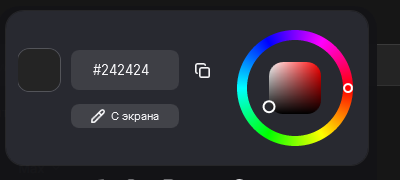
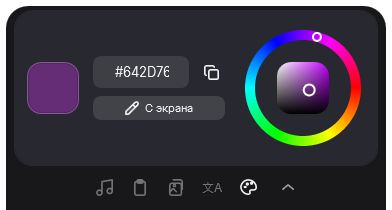
docs: transparent screenshots, README refresh, bump to 1.0.2

diff --git a/README.md b/README.md
@@ -12,7 +12,7 @@
 - **Буфер обмена** — только **уникальные** записи, текст / ссылки / изображения с аккуратными миниатюрами; клик по записи возвращает её в буфер.
 - **Скриншоты** — последние снимки из системной папки; клик открывает файл в проводнике, иконка папки — саму папку.
 - **Переводчик** — авто-перевод по мере ввода, языки RU/EN/DE/FR/ES/AUTO, `Swap`, `Enter` — перевести сразу, копирование результата одной кнопкой.
-- **Пипетка (Color Picker)** — колесо тона + квадрат яркости/насыщенности, HEX/RGB/HSL/CSS с копированием в один клик и **выбор цвета с экрана** (полноэкранная лупа, ЛКМ — выбрать, Esc — отмена).
+- **Пипетка (Color Picker)** — колесо тона + квадрат яркости/насыщенности, HEX с копированием в один клик и **живой пик с экрана**: панель с зумом 13×13 пикселей следует за курсором и обновляется в реальном времени, ЛКМ — выбрать, ПКМ / Esc — отмена.
 - **Трей** — «Показать», «Расположение», «Запускать с Windows», «Перезапустить», «Выход» (двойной клик по иконке — перезапуск).
 - **Положение острова** — сверху или снизу (над панелью задач); настройка сохраняется.
 - **Защита от дублей** приложения (второй запуск закрывается).
@@ -23,7 +23,7 @@
 |---|---|
 | ![Музыка](docs/screenshots/02-music.png) | ![Буфер обмена](docs/screenshots/03-clipboard.png) |
 | ![Скриншоты](docs/screenshots/04-screenshots.png) | ![Переводчик](docs/screenshots/05-translator.png) |
-| ![Пипетка](docs/screenshots/06-colorpicker.png) | ![Нижнее расположение](docs/screenshots/06-bottom.png) |
+| ![Пипетка](docs/screenshots/06-colorpicker.png) | ![Свёрнутое состояние](docs/screenshots/01-collapsed.png) |
 
 ## Требования
 
@@ -33,7 +33,7 @@
 
 ## Установка
 
-1. Скачай `DynamicIsland-1.0.1-win-x64.zip` со страницы [Releases](../../releases).
+1. Скачай `DynamicIsland-1.0.2-win-x64.zip` со страницы [Releases](../../releases).
 2. Распакуй в удобную постоянную папку (например, `C:\Tools\DynamicIsland`).
 3. Запусти `DynamicIsland.exe`.
 4. Приложение не подписано, поэтому SmartScreen покажет «Неизвестный издатель» — нажми **«Подробнее» → «Выполнить в любом случае»**.
